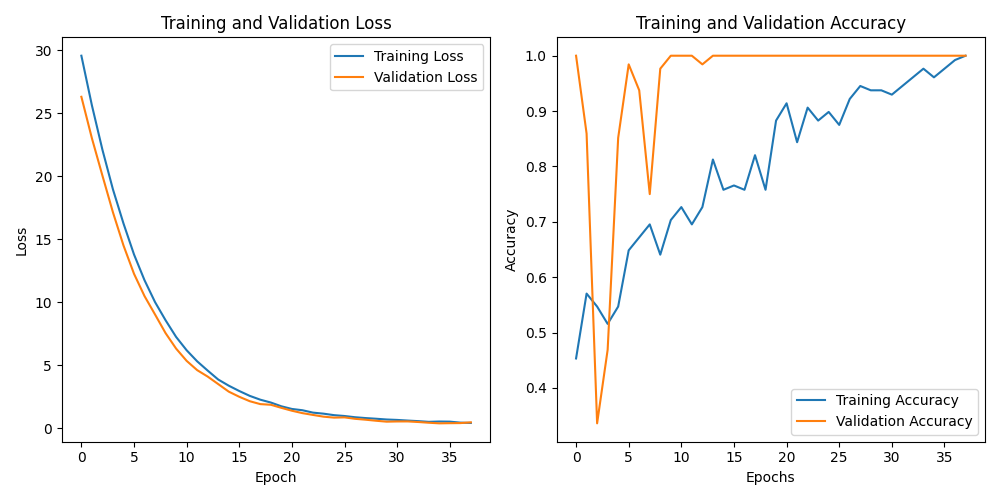
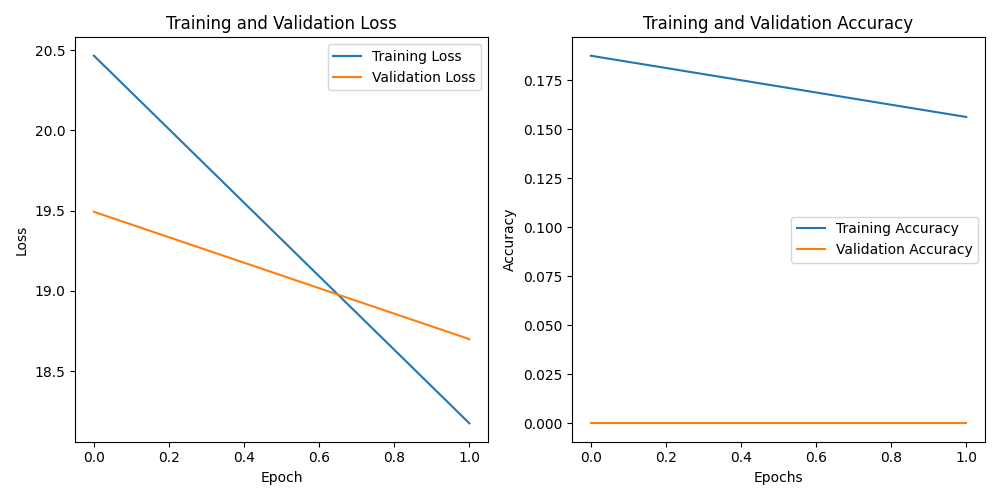
changes to make model accept different labels and change compile to use categorical crossentropy

diff --git a/models/multimodel.py b/models/multimodel.py
@@ -12,6 +12,7 @@ import matplotlib.pyplot as plt
 import gensim.downloader as api
 import numpy as np
 
+
 def plot_evaluate_result(eval_metrics):
     pass
 
@@ -106,7 +107,7 @@ class Hatespeech:
         embedded_text = Embedding(input_dim=word_size,
                                   output_dim=50,
                                   input_length=self.max_sequence_length)(text_input)
-        return LSTM(150)(embedded_text)
+        return LSTM(25)(embedded_text)
 
     def create_lstm_layer_image_text(self, text_input):
         tokenizer = self.dataset_loader.image_text_tokenizer
@@ -116,30 +117,44 @@ class Hatespeech:
         embedded_text = Embedding(input_dim=word_size,
                                   output_dim=50,
                                   input_length=self.max_sequence_length)(text_input)
-        return LSTM(150)(embedded_text)
+        return LSTM(25)(embedded_text)
 
     def create_model2(self):
-
         text_input = Input(shape=(1,), dtype='int32', name='text_input')
         lstm_text = self.create_lstm_layer_tweet_text(text_input)
 
         image_text_input = Input(shape=(1,), dtype='int32', name='image_text_input')
         lstm_image_text = self.create_lstm_layer_image_text(image_text_input)
 
+        lstm_merged = concatenate([lstm_text, lstm_image_text])
+
         image_input = Input(shape=(299, 299, 3), name='image_input')
         image_features = self.inception_model(image_input)
         image_features = GlobalAveragePooling2D()(image_features)
 
-        merged = concatenate([lstm_text, lstm_image_text, image_features])
-        merged = Dense(150, activation='relu',
-                       kernel_initializer=HeNormal(),
-                       kernel_regularizer=regularizers.l2(0.1))(merged)
-        merged = BatchNormalization()(merged)
-        merged = Dropout(0.5)(merged)
+        merged = concatenate([lstm_merged, image_features])
+        hidden1 = Dense(84, activation='relu',
+                        kernel_initializer=HeNormal(),
+                        kernel_regularizer=regularizers.l2(0.1))(merged)
+        hidden1 = BatchNormalization()(hidden1)
+        # hidden1 = Dropout(0.5)(hidden1)
+        #
+        # hidden2 = Dense(50, activation='relu',
+        #                 kernel_initializer=HeNormal(),
+        #                 kernel_regularizer=regularizers.l2(0.1))(hidden1)
+        # hidden2 = BatchNormalization()(hidden2)
+        # hidden2 = Dropout(0.3)(hidden2)
+        #
+        # hidden3 = Dense(50, activation='relu',
+        #                 kernel_initializer=HeNormal(),
+        #                 kernel_regularizer=regularizers.l2(0.1))(hidden2)
+        # hidden3 = BatchNormalization()(hidden3)
+        # hidden3 = Dropout(0.3)(hidden3)
 
-        output = Dense(1, activation='sigmoid')(merged)
+        # output = Dense(1, activation='sigmoid')(hidden2)
+        output = Dense(6, activation='softmax')(hidden1)
 
-        self.model = Model(inputs=[text_input, image_text_input,  image_input], outputs=output)
+        self.model = Model(inputs=[text_input, image_text_input, image_input], outputs=output)
 
         # model_inputs = self.model.input
         # for i, input_layer in enumerate(model_inputs):
@@ -195,7 +210,8 @@ class Hatespeech:
     #     #     print()
     def build(self):
         # weighted_metrics=[]
-        self.model.compile(optimizer='adam', loss='binary_crossentropy', metrics=['accuracy'])
+        # self.model.compile(optimizer='adam', loss='binary_crossentropy', metrics=['accuracy'])
+        self.model.compile(optimizer='adam', loss='categorical_crossentropy', metrics=['accuracy'])
         self.model.summary()
         plot_model(self.model, show_shapes=True, to_file='model.png', show_layer_names=True)
 
@@ -222,9 +238,9 @@ class Hatespeech:
 
         training_history = self.model.fit(x=[text_data, text_image, image_data],
                                           y=labels,
-                                          epochs=500,
+                                          epochs=2,
                                           validation_data=(
-                                          [val_text_data, val_image_text_data, val_image_data], val_labels_data),
+                                              [val_text_data, val_image_text_data, val_image_data], val_labels_data),
                                           callbacks=[early_stopping])
 
         plot_training_result(training_history)

diff --git a/data/dataset.py b/data/dataset.py
@@ -1,5 +1,5 @@
+import numpy as np
 from keras_preprocessing.image import ImageDataGenerator
-
 from configs.database import database_path
 import json
 import os
@@ -16,7 +16,7 @@ data_aug = ImageDataGenerator(
     shear_range=0.2,
     zoom_range=0.2,
     horizontal_flip=True,
-    rescale=1./255
+    rescale=1. / 255
 )
 
 
@@ -138,17 +138,12 @@ class DatasetLoader:
         dict_dataset = None
         with open(dataset_file_path, 'r') as file:
             dict_dataset = json.load(file)
-
+        zero_digits = [6] * 6
         img_resized_path = database_path['img_resized_path']
         for key in dict_dataset:
             self.Ids.append(key)
             info = dict_dataset[key]
-            # 0 NotHate - 1 Hate
-            if len(info['labels']) == 1 and info['labels'][0] == 0:
-                self.labels.append(0)
-            else:
-                self.labels.append(1)
-            # self.labels.append(info['labels'])
+            self.labels.append(info['labels'])
             text = info['tweet_text']
             self.tweet_text.append(text)
             img_text_file_path = os.path.join(image_text_path, f'{key}.json')
@@ -163,6 +158,16 @@ class DatasetLoader:
             img_resized_file_path = os.path.join(img_resized_path, f'{key}.jpg')
             self.img_resized_files.append(img_resized_file_path)
 
+        one_hot_encoded = []
+        num_classes = 6
+        for labels in self.labels:
+            one_hot = np.zeros(num_classes)
+            for label in labels:
+                one_hot[label] = 1
+            one_hot_encoded.append(one_hot)
+
+        binary_labels = np.array(one_hot_encoded)
+        self.labels = binary_labels
         combined_data = list(zip(self.Ids, self.tweet_text, self.image_text, self.img_resized_files, self.labels))
         train_combined_data, combined_data_temp, = train_test_split(combined_data, test_size=0.4, random_state=42)
         test_combined_data, val_combined_data, = train_test_split(combined_data_temp, test_size=0.5, random_state=42)
@@ -182,29 +187,6 @@ class DatasetLoader:
         self.image_text_val = self.converto_to_tokenized_image_texts(self.image_text_val)
         self.image_text_train = self.converto_to_tokenized_image_texts(self.image_text_train)
 
-        # # self.labels = self.label_encoder.fit_transform(self.labels)
-        # # split the dataset to test and validation
-        # self.tweet_text_train, tweet_text_temp = train_test_split(self.tweet_text, test_size=0.4,
-        #                                                           random_state=42)
-        # self.tweet_text_test, self.tweet_text_val = train_test_split(tweet_text_temp,
-        #                                                              test_size=0.5,
-        #                                                              random_state=42)
-        #
-        # self.img_resized_train, img_resized_temp = train_test_split(self.img_resized_files,
-        #                                                             test_size=0.4,
-        #                                                             random_state=42)
-        # self.img_resized_test, self.img_resized_val = train_test_split(img_resized_temp,
-        #                                                                test_size=0.5,
-        #                                                                random_state=42)
-        #
-        # self.labels_train, labels_temp = train_test_split(self.labels, test_size=0.4,
-        #                                                   random_state=42)
-        # self.labels_test, self.labels_val = train_test_split(labels_temp, test_size=0.5,
-        #                                                      random_state=42)
-
-        # create a slice of the dataset to train
-        # self.train_ids_dataset = tf.data.Dataset.from_tensor_slices(self.ids_train)
-        list_1 = [self.img_resized_train]
         list_2 = list(self.img_resized_train)
         self.train_image_text_dataset = tf.data.Dataset.from_tensor_slices(self.image_text_train)
         self.train_text_dataset = tf.data.Dataset.from_tensor_slices(self.tweet_text_train)

diff --git a/tests.py b/tests.py
@@ -1,0 +1,14 @@
+from PIL import Image
+import os
+import json
+import numpy as np
+
+if __name__ == '__main__':
+    n = 6
+    y = np.array([2, 4, 1, 0, 3, 5])
+    categorical = np.zeros((len(y), n))
+
+    X_train = np.random.rand(1000, 10)
+    y_train = np.random.randint(0, 3, 1000)
+    j = 10
+
